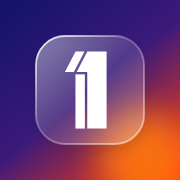
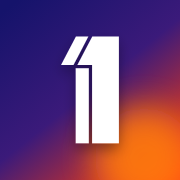
Ícone da app: sem o quadrado de vidro, símbolo diretamente sobre o degradê

Changed region(s): [[0.1944, 0.1944, 0.8056, 0.8333]]

diff --git a/public/index.html b/public/index.html
@@ -7,8 +7,8 @@
 <title>Onze Feminino</title>
 <meta name="description" content="Resultados, jogos e classificações do futebol feminino em Portugal: Liga BPI, 2.ª, 3.ª e 4.ª Liga.">
[1 lines of base64/hex data omitted]
-<link rel="apple-touch-icon" sizes="180x180" href="marca/apple-touch-icon.png?v=2">
-<link rel="icon" type="image/png" sizes="32x32" href="marca/favicon-32.png?v=2">
+<link rel="apple-touch-icon" sizes="180x180" href="marca/apple-touch-icon.png?v=3">
+<link rel="icon" type="image/png" sizes="32x32" href="marca/favicon-32.png?v=3">
 <link rel="manifest" href="manifest.webmanifest">
 <meta name="apple-mobile-web-app-capable" content="yes">
 <meta name="mobile-web-app-capable" content="yes">
